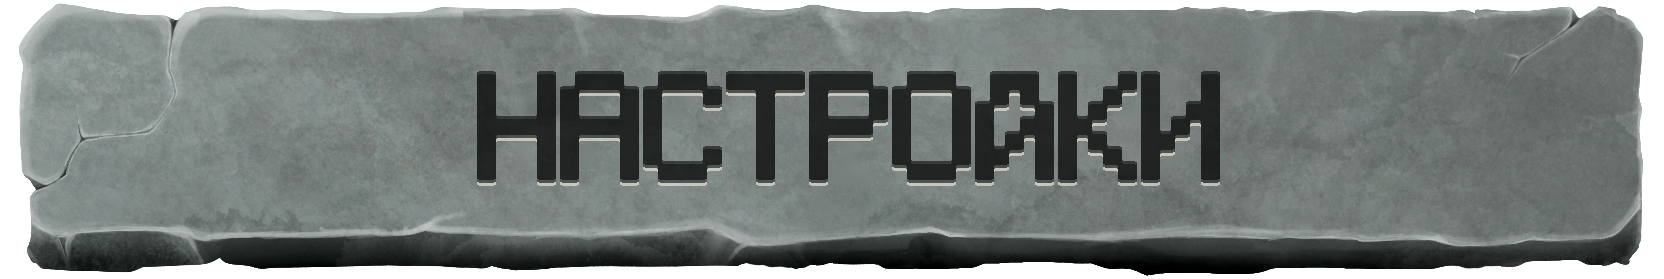
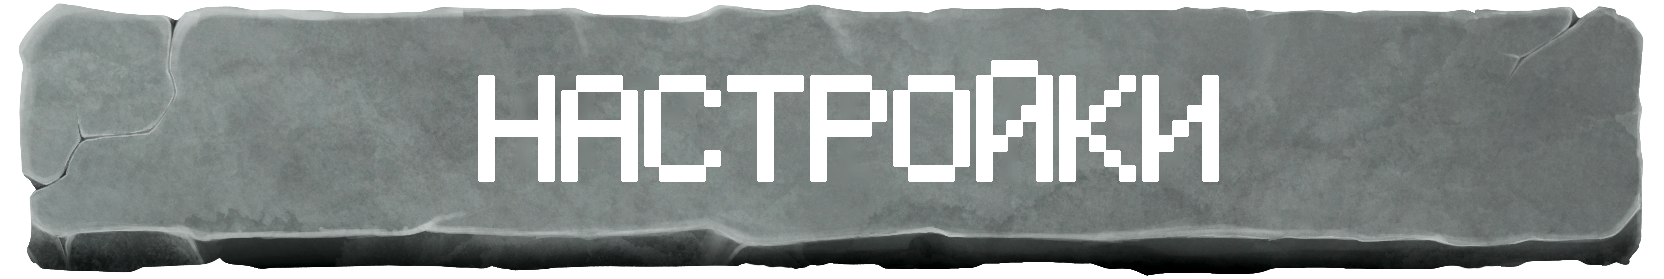
Кнопки НАСТРОЙКИ/МОДЫ v3: белый шрифт как у остальных, Й с бреве над строкой (читается на меню-масштабе); kubejs-lang: +7 ключей актуальной версии пака, включая gateways.scylla (жемчужина Сциллы)

Changed region(s): [[0.2812, 0.2007, 0.75, 0.6882]]

diff --git a/Проекты/StoneBlock 4/документация/JOURNAL_JARJAR_SAUCE_BUTTONS_2026-10-26.md b/Проекты/StoneBlock 4/документация/JOURNAL_JARJAR_SAUCE_BUTTONS_2026-10-26.md
@@ -23,3 +23,6 @@
 
 ## Дополнение: регистр в названиях «Стражей» (вопрос пользователя)
 «Шлем Стража чащи» — нарицательное «Страж» с заглавной посреди названия при строчных «грозы/зимы/чащи» выглядело рвано и противоречило сущности того же мода («Сверкающий страж чащи» — со строчной). Все 20 названий тяжёлых комплектов Ars Elemental приведены к предложному регистру: «Шлем стража чащи», «Комплект стража Незера» и т.п. («Незер» оставлен с заглавной как имя собственное). Системные заглавные пака (стихии, имена существ, Источник) не тронуты.
+
+## Дополнение 2: кнопки v3 (белый шрифт, Й бреве над строкой) + gateways.scylla
+Жалобы по гравированным кнопкам: «НАСТРОЯКИ» (Й читалась как А при игровом масштабе), чёрный шрифт выбивается из белых, Ы разваливалась. Гравировка отменена: кнопки НАСТРОЙКИ/МОДЫ перерисованы белым (как все остальные), морфология тоньше (3×3) ради чёткости при даунскейле; Й спроектирована заново — тело чистое И, дуга-бреве вынесена на строку ВЫШЕ капители (как в шрифте Minecraft), после A/B-тестов 5 вариантов на реальном меню-масштабе (373px). Заодно закрыт хвост актуальной версии пака: в kubejs/assets/ftb/lang/ru_ru.json добавлены 7 недостающих ключей текущей версии StoneBlock 4 (сверено с en_us пака, 1520 ключей): gateways.scylla («Босс Сцилла - Катаклизм» — та самая жемчужина со скриншота), ftb.echo.unmet.lore, подсказки Powah/Mekanism/Industrial Foregoing и запрет броска жемчуга.
